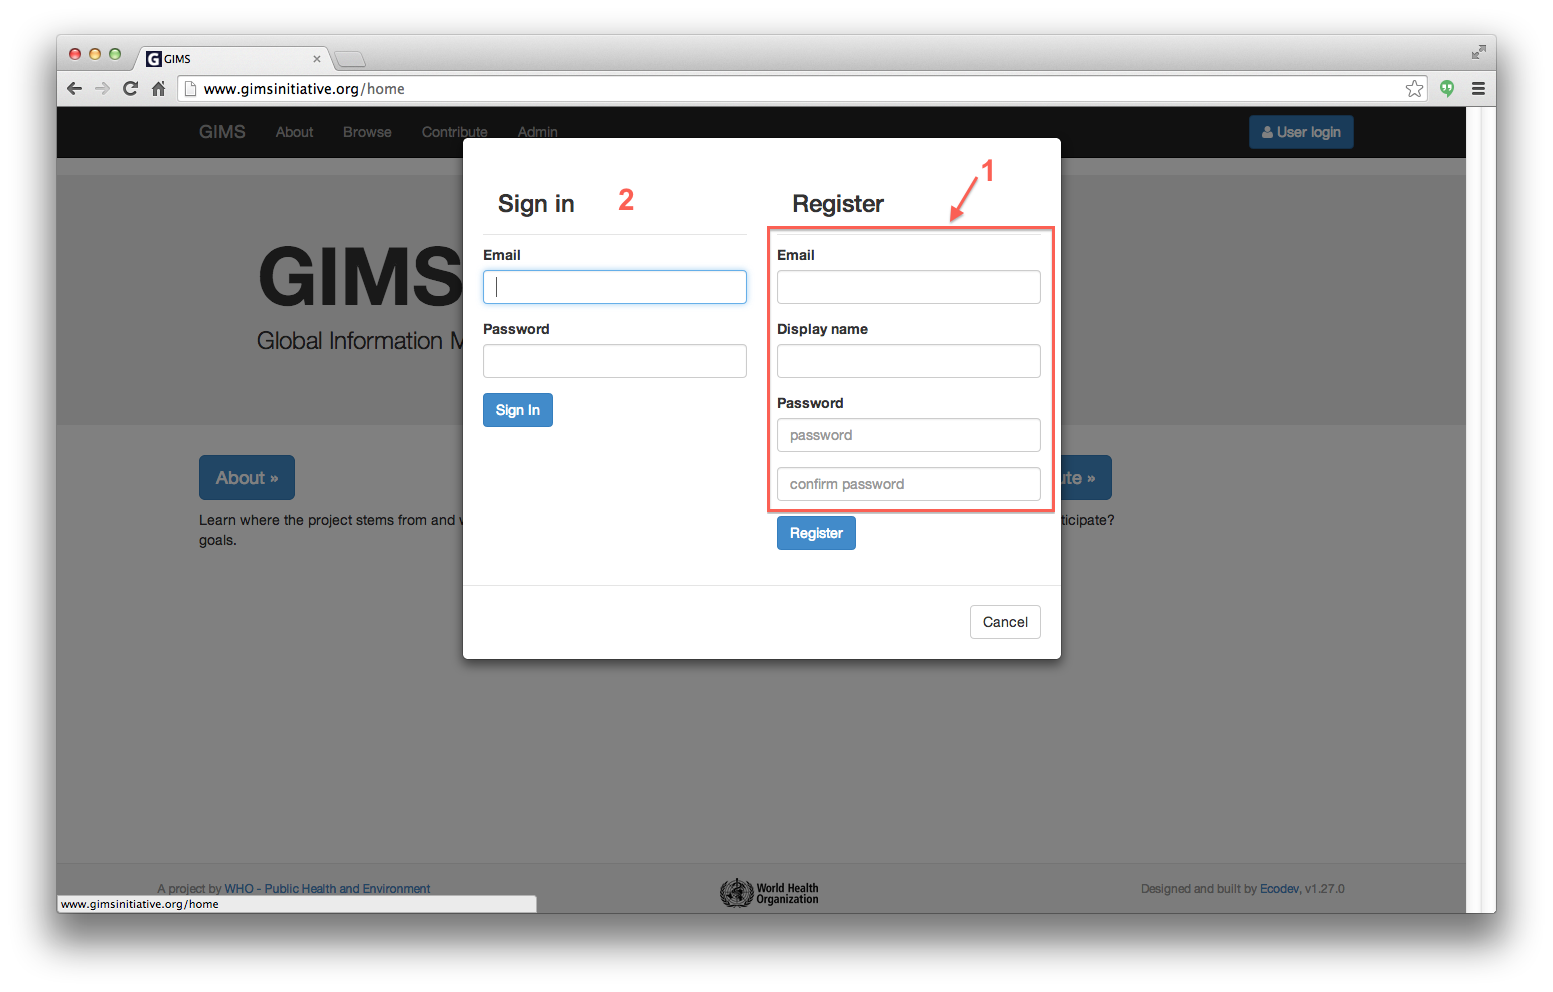
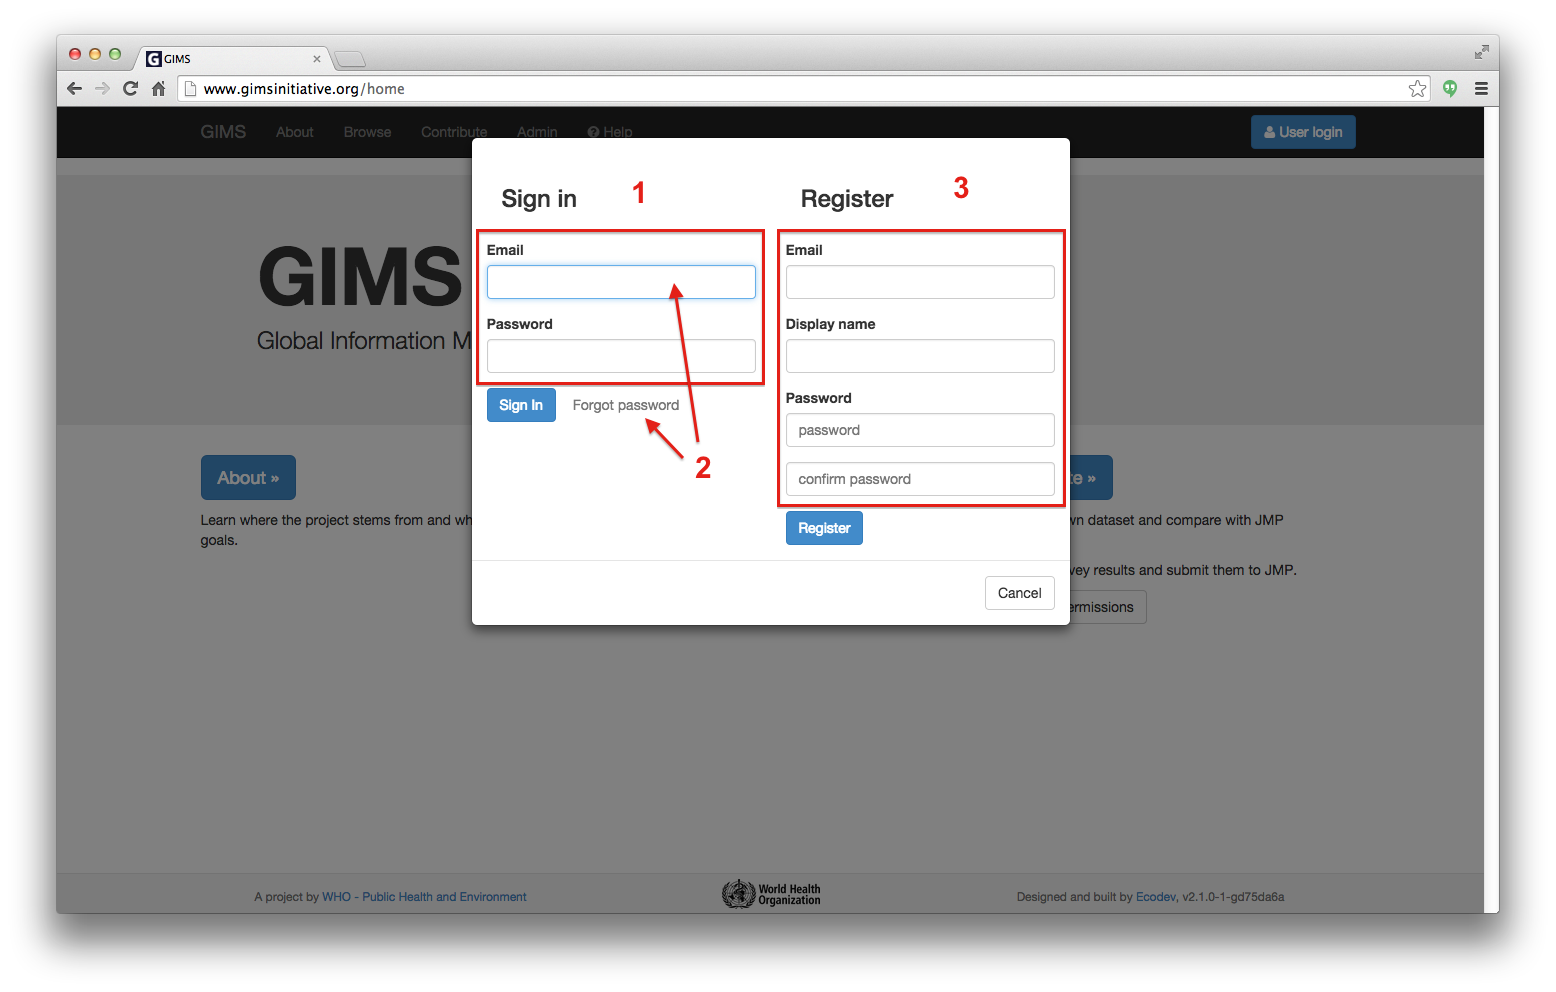
minor update of basics and roles pages

diff --git a/docs/content/basics.rst b/docs/content/basics.rst
@@ -41,12 +41,14 @@ On most pages you will find question marks [1] that provide an initial reminder 
 
 .. _sign-in:
 
-Register or Sign in
--------------------
+Register, sign in, reset your password
+--------------------------------------
 
-If you already have a user account, simply **sign in** with your email and password [2].
+If you already have a user account, simply **sign in** with your email and password [1].
 
-If you have no user account yet, fill in all the fields in the **Register** column [1] and click on the blue "Register" button.
+If you **forgot your password**, enter your email and click on "Forgot password" [2]. You will then receive an email with a link to reset it.
+
+If you have no user account yet, fill in all the fields in the **Register** column [3] and click on the blue "Register" button.
 
 .. image:: img/register_signin.png
     :width: 100%
@@ -66,7 +68,9 @@ Your GIMS account will only be active once you will have clicked on the link in 
 
 .. note::
 
-    You will be able to complete your :doc:`users account <user>` in a second stage.
+    Upon first login, you will be invited to complete your :doc:`users account
+    <user>`. This can be done at any moment by clicking on your name at the top
+    right of the screen.
 
 
 .. _ask-permissions:

diff --git a/docs/content/roles_and_permissions.rst b/docs/content/roles_and_permissions.rst
@@ -13,7 +13,7 @@ of all the access rights for a given person (see :ref:`specific user page
 questionnaires and :guilabel:`Filter Sets` all users who have an access to these
 elements are listed.
 
-There are five different roles, the first three are standard and the last two are special and given to a very limited number of "super-admin" users.
+There are six different roles, the first four are standard and the last two are special and given to a very limited number of "super-admin" users.
 
 Standard roles
 --------------
@@ -29,6 +29,9 @@ Standard roles
     Can review a completed questionnaire and mark it as "Validated". From this
     point, data can't be modified anymore (unless the status is reverted to
     "New").
+    
+**Questionnaire observer**
+    Can only see non-validated data without being able to edit the content.
 
 .. _special_roles:
 
